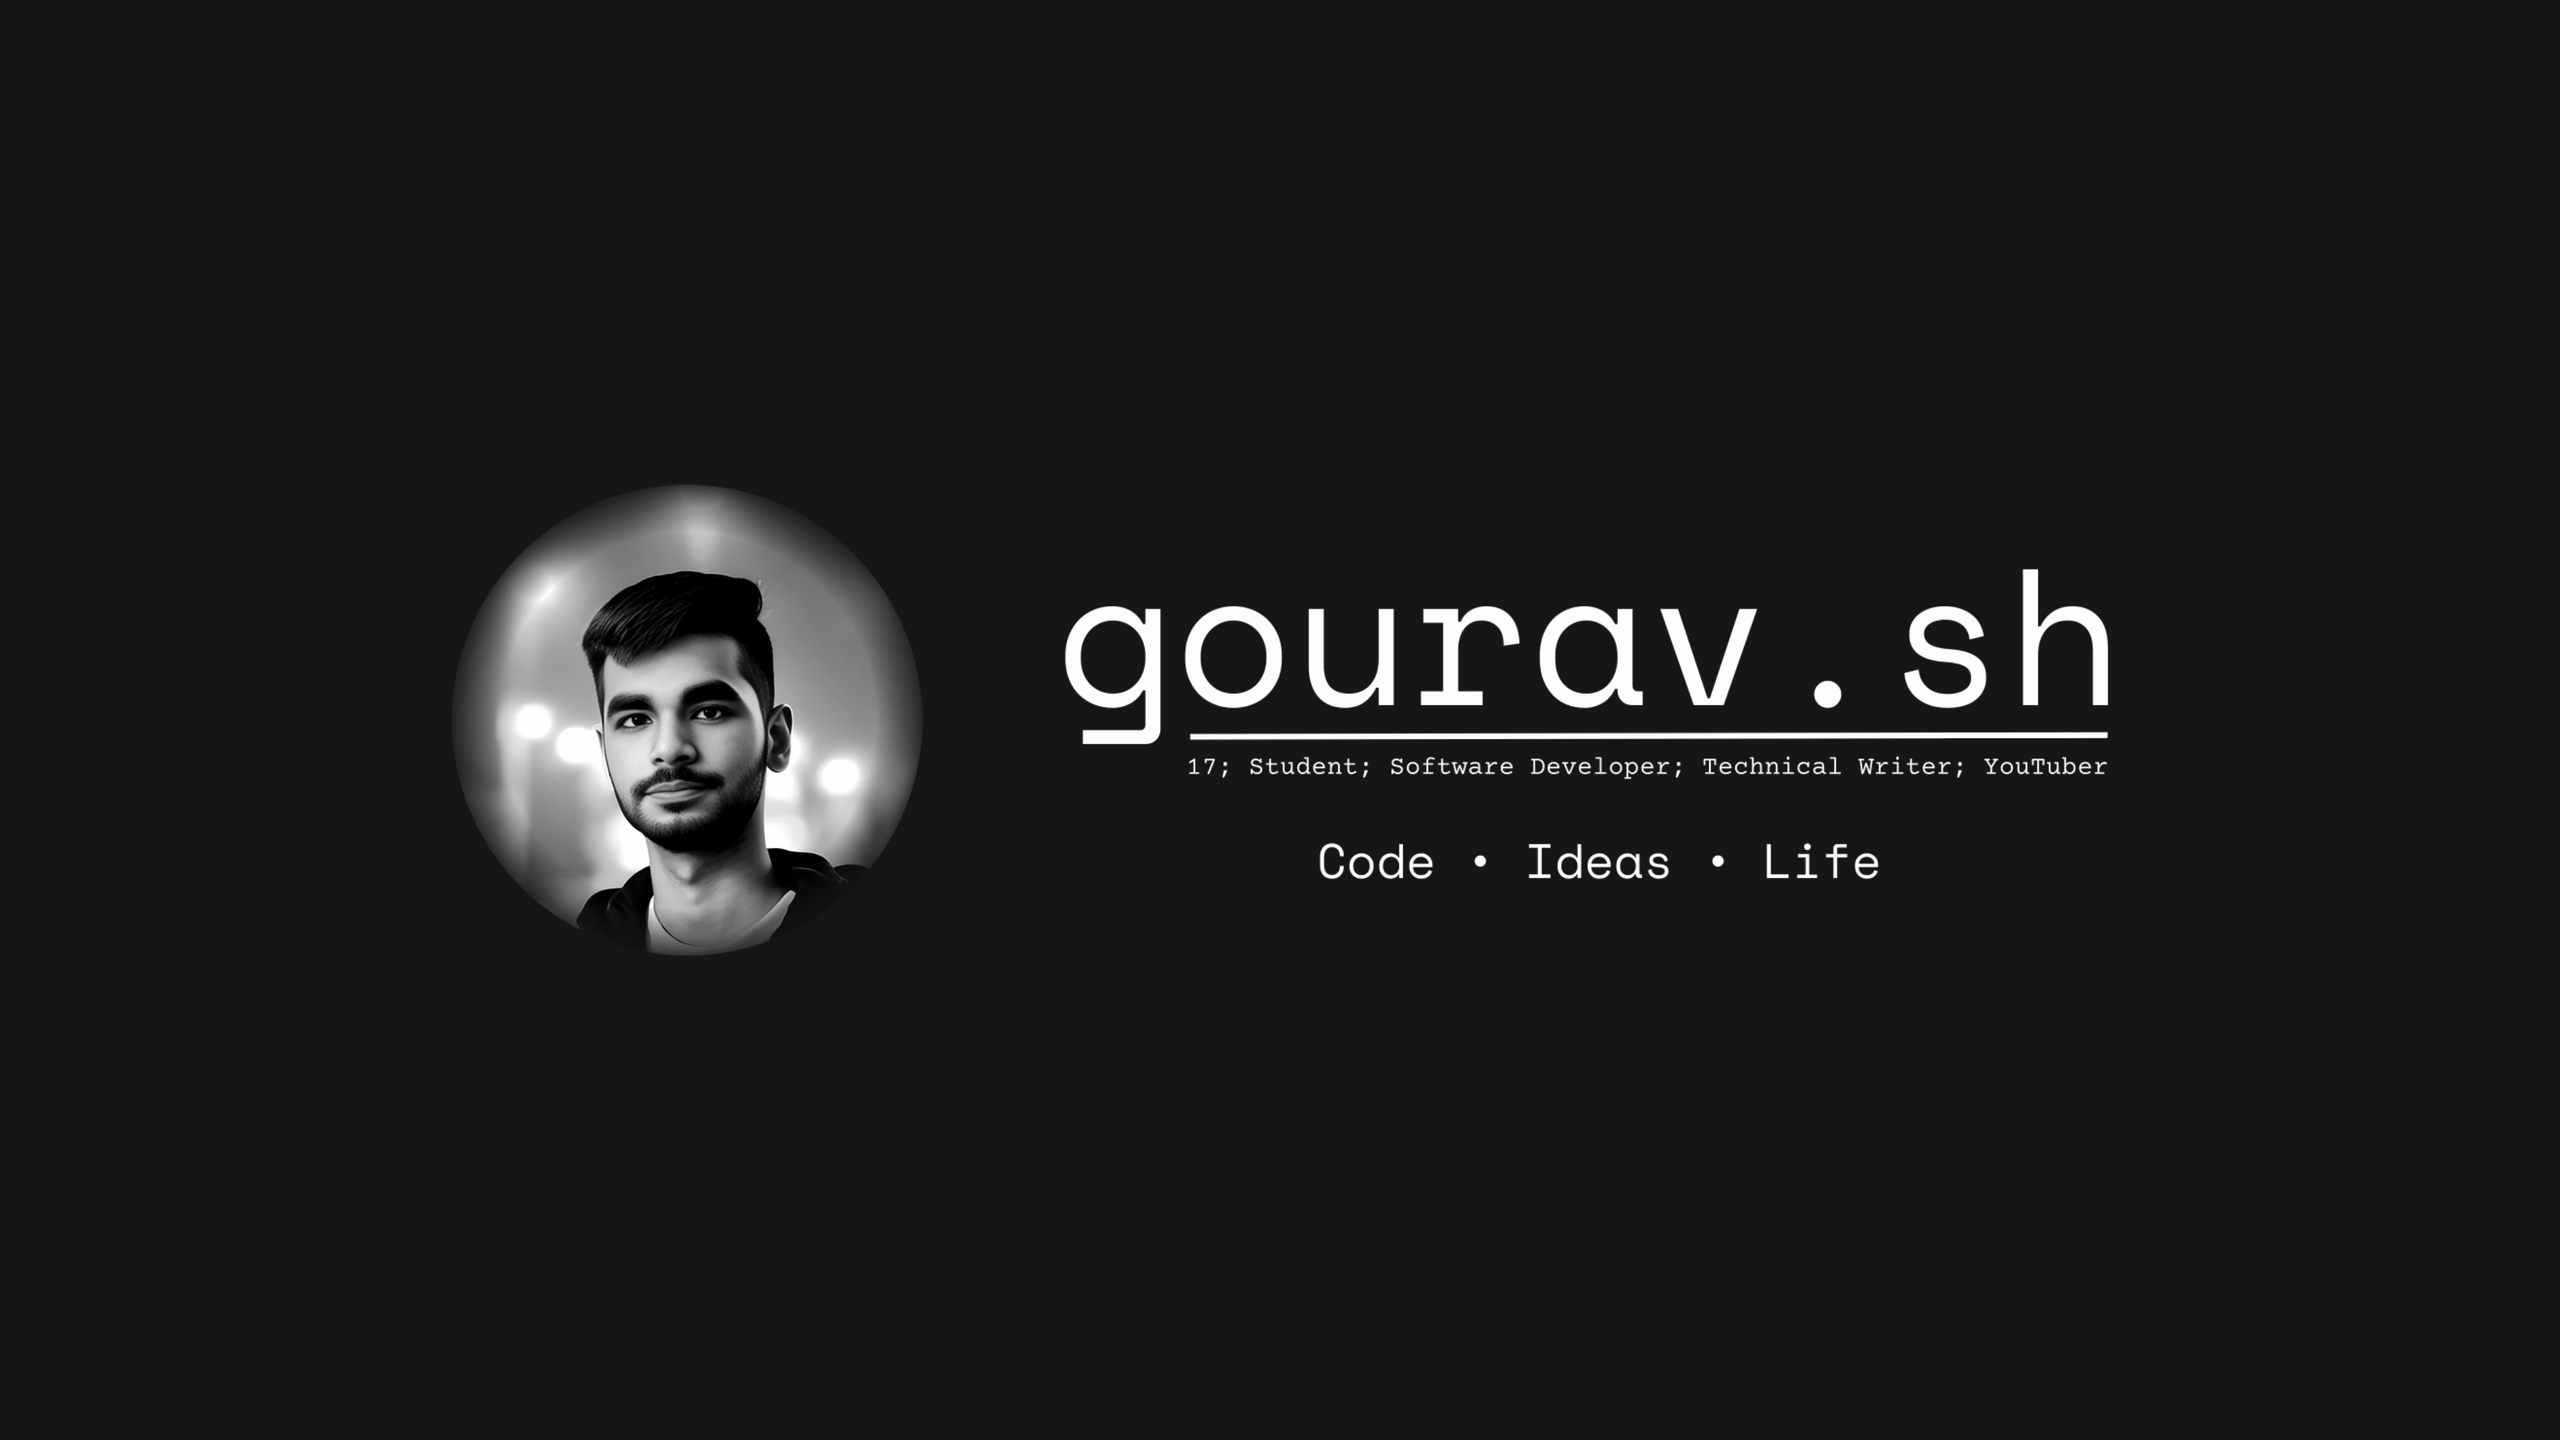
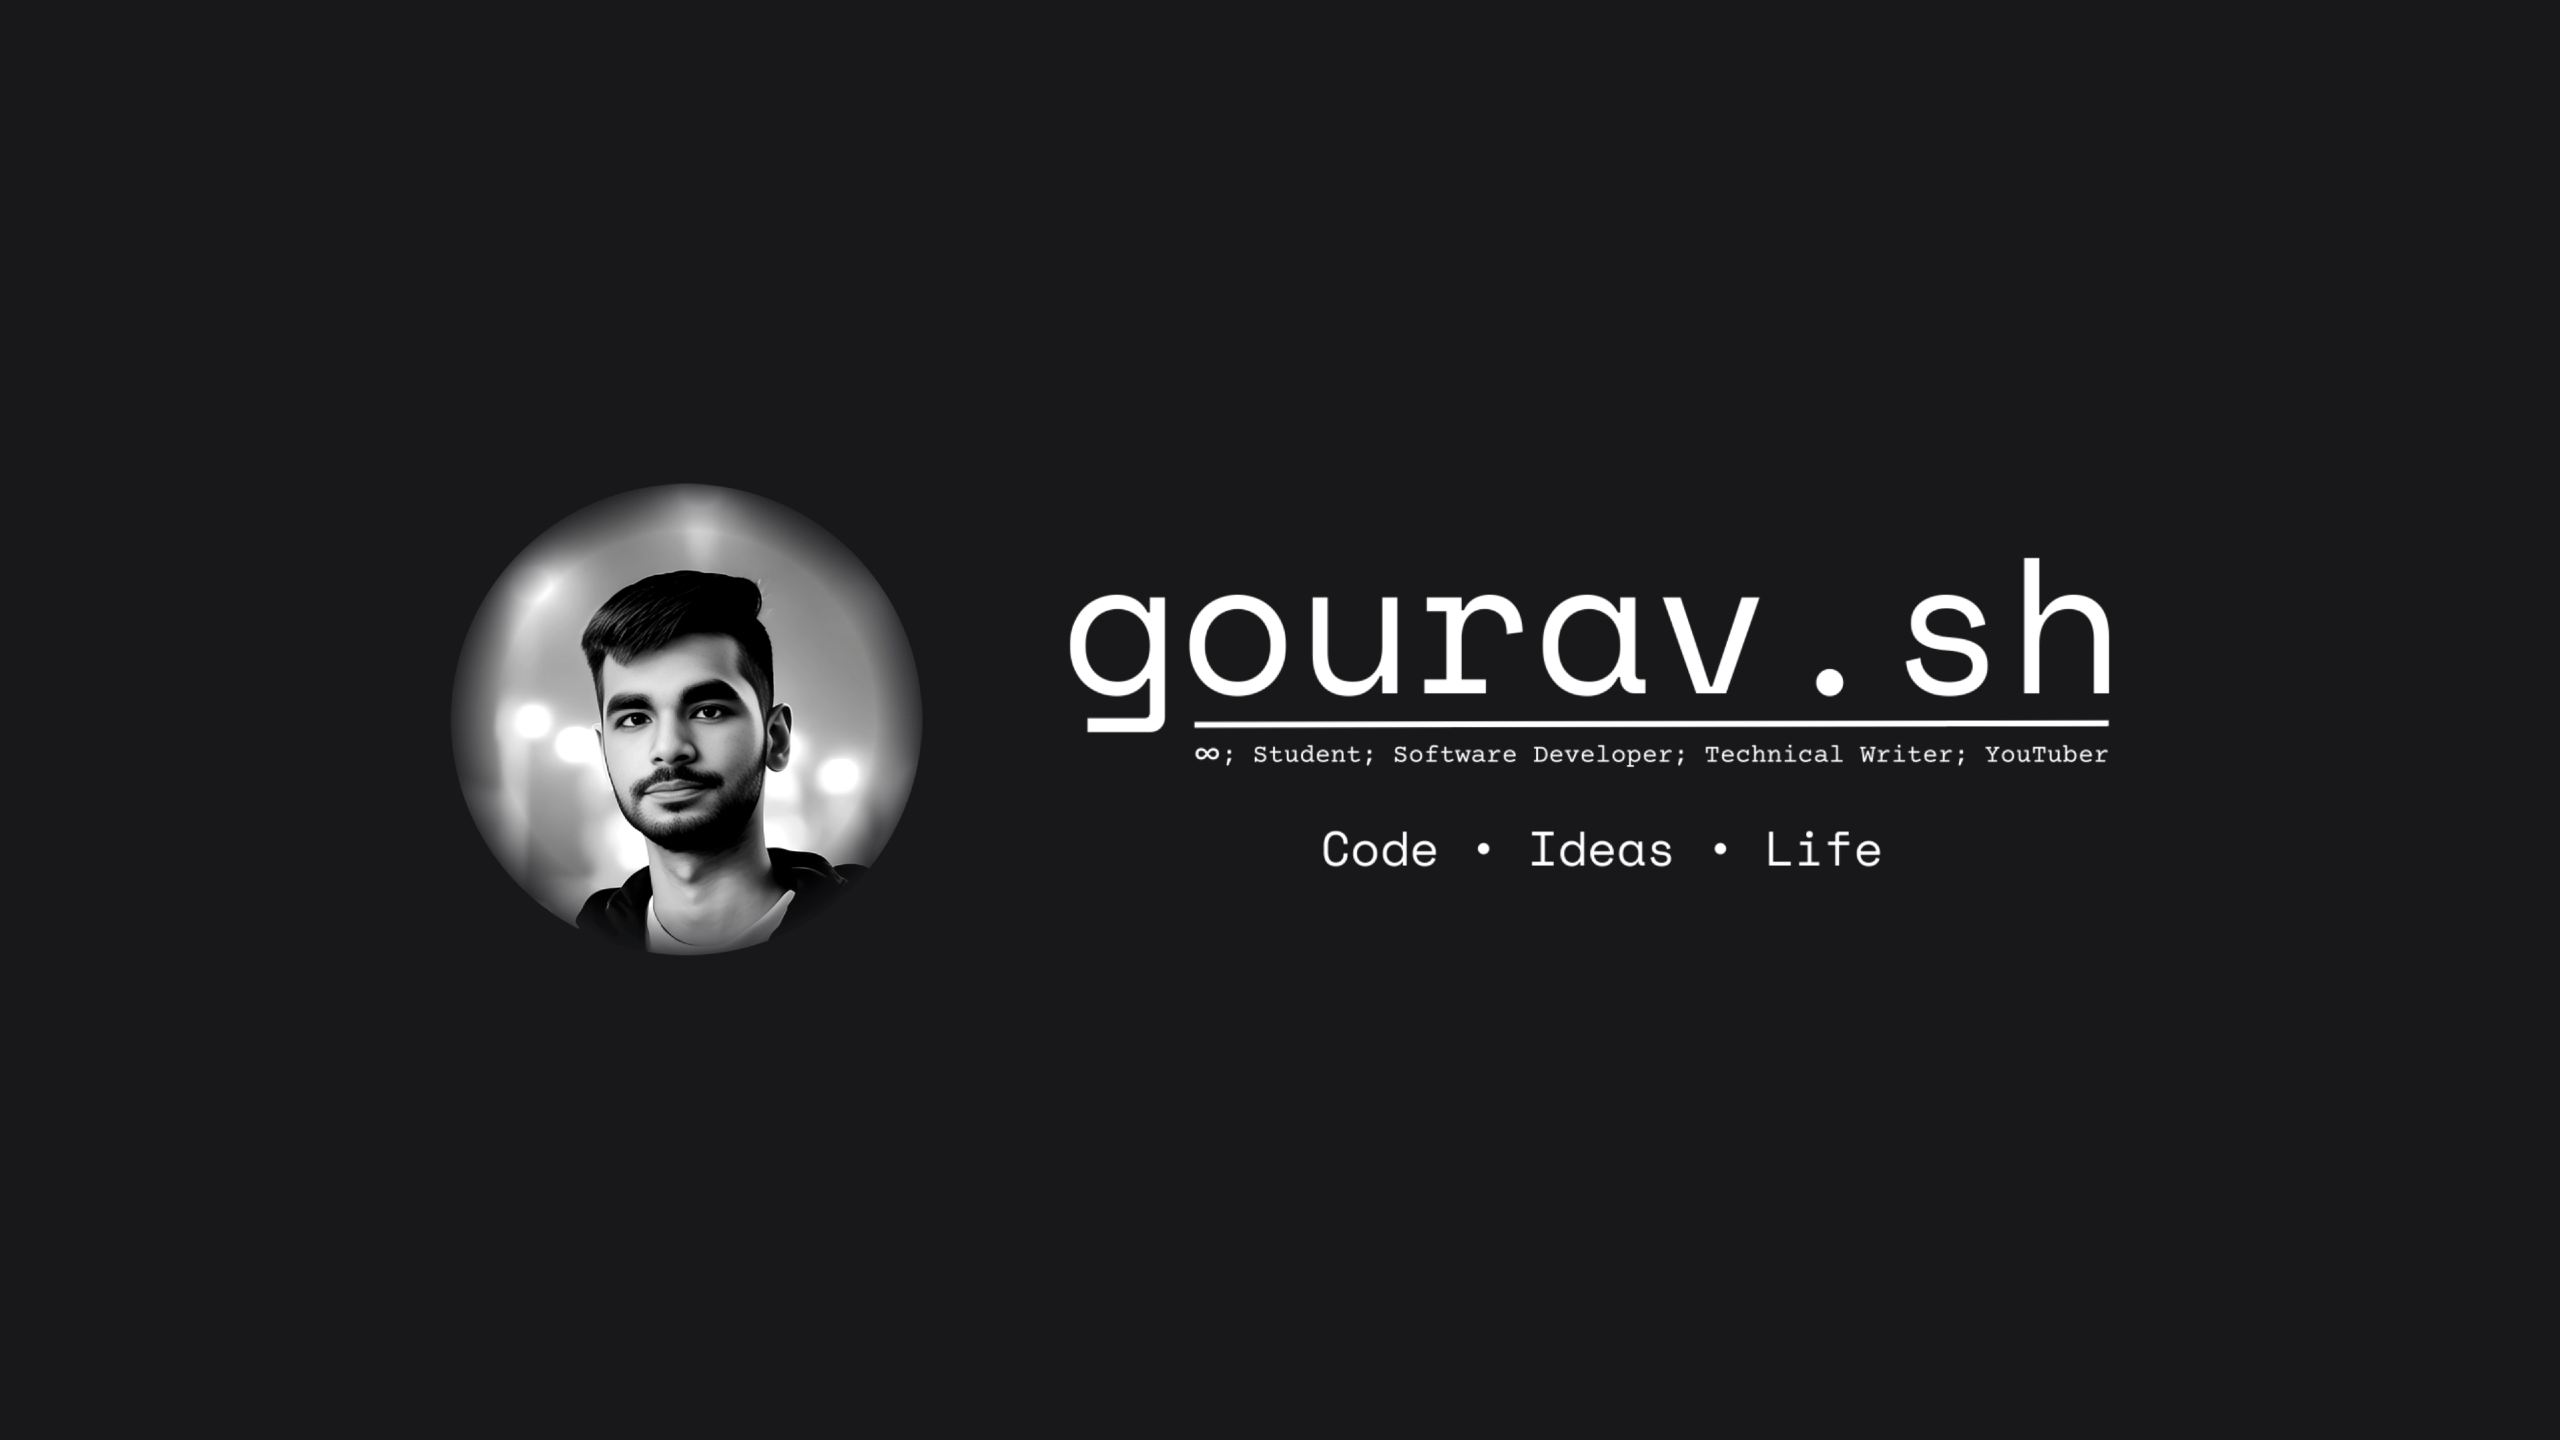
chore: cover and text updates
remove instances of age

Changed region(s): [[0.4062, 0.4062, 0.8438, 0.625], [0.2188, 0.4062, 0.25, 0.4375]]

diff --git a/_pages/index.html b/_pages/index.html
@@ -1,7 +1,7 @@
 ---
 layout: default
 title: Gourav Khunger | Software Developer
-description: Personal portfolio website of Gourav Khunger - 17 year old Software Developer from India.
+description: Personal website of Gourav Khunger - Software Developer from India.
 permalink: /
 ---
 
@@ -11,7 +11,7 @@ permalink: /
     <h2 class="font-black">
       Gourav Khunger
     </h2>
-    <span class="text-slate-500 dark:text-slate-300">17; Software Developer; Technical Writer; YouTuber</span>
+    <span class="text-slate-500 dark:text-slate-300">Software Developer; Technical Writer; YouTuber</span>
     <p class="mt-6 dark:text-gray-400">Hi, I am a self-taught software developer from India. My primary expertise is native Android app development with which I began my journey, but over time I have gained experience with a lot of tech stacks.</p>
     <div class="mt-4 -ml-2 flex">
       <a
